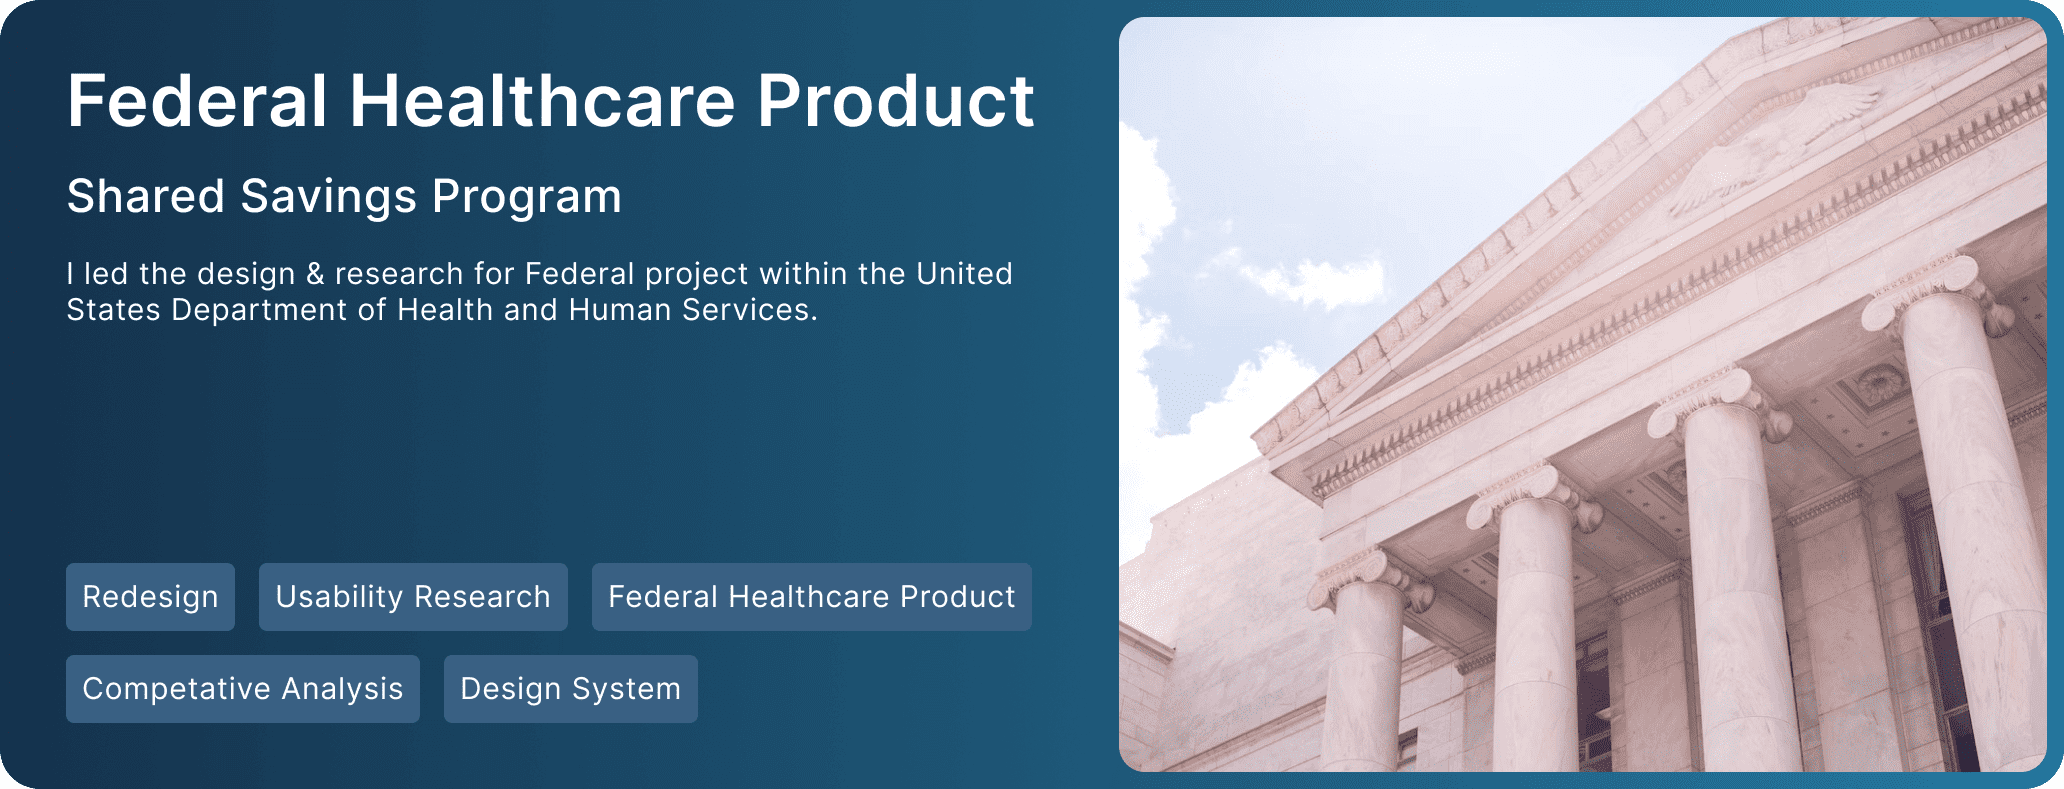
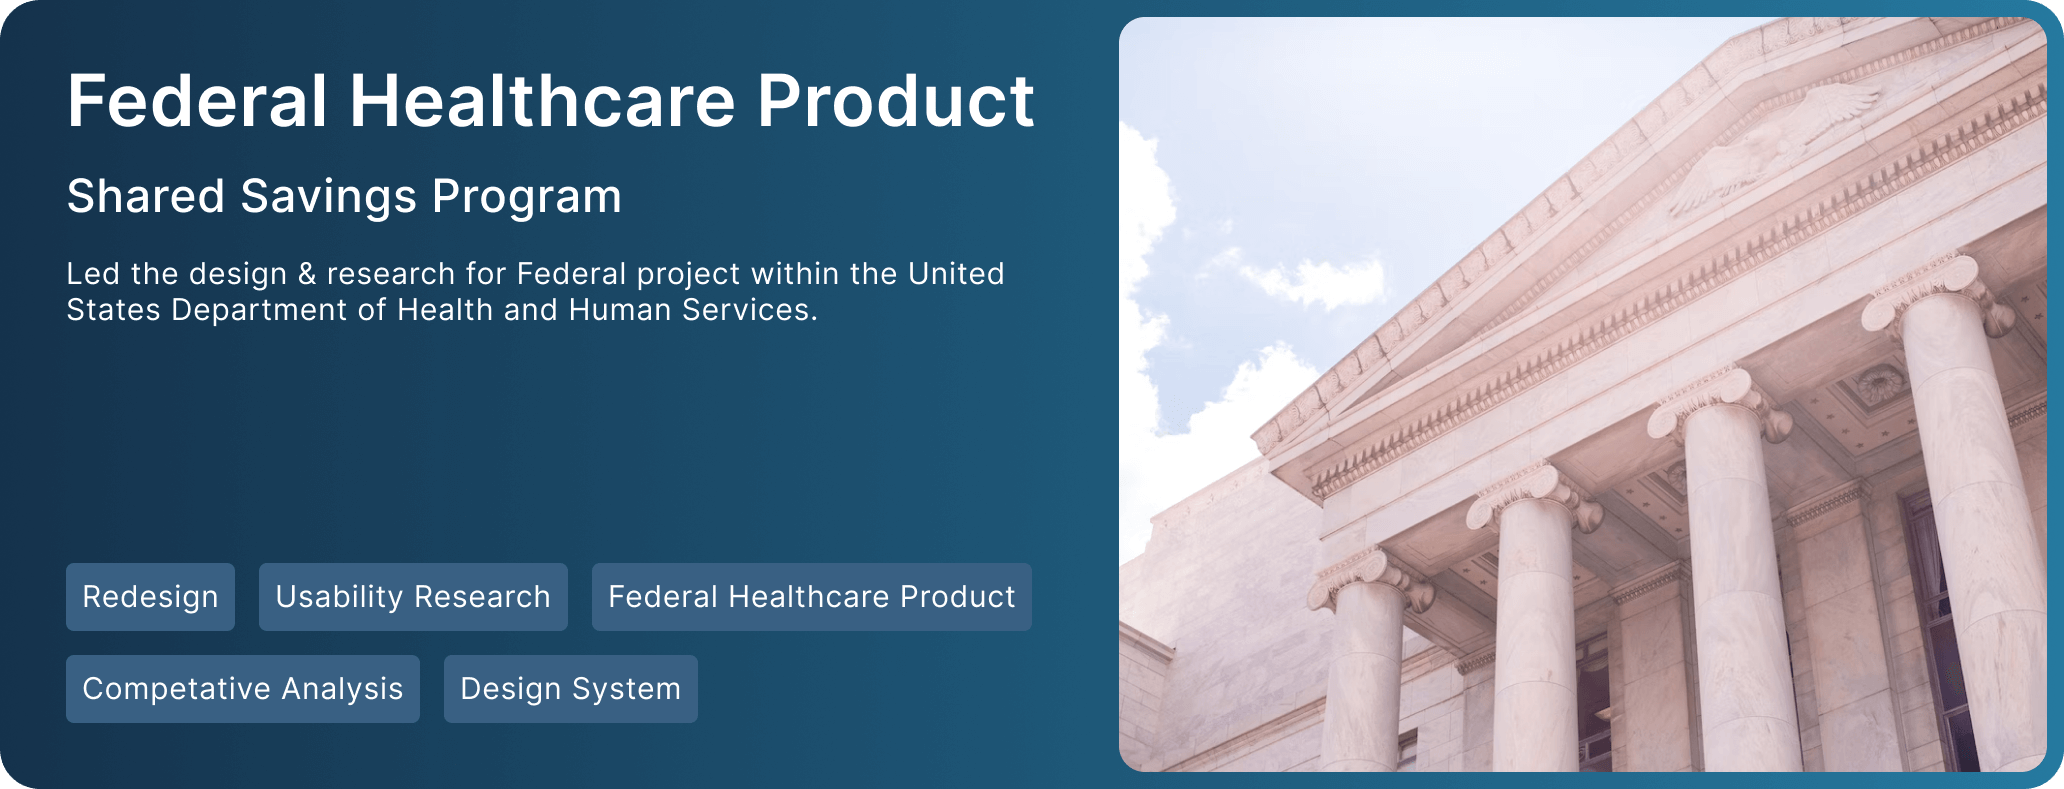
f
f

Changed region(s): [[0.031, 0.3346, 0.4961, 0.365], [0.8682, 0.8517, 0.9302, 0.9734]]

diff --git a/bspd2244180913323234627744434543.html b/bspd2244180913323234627744434543.html
@@ -141,7 +141,8 @@
   
 <div class="col-md-12" style="font-size:20px; z-index:90; font-weight:700; color: #333333;padding: 0 !important;
    margin: 0 !important;">
-  BACKGROUND </br>  <span style="font-size:20px; z-index:400; color: #333333;  font-weight:400; z-index:90;"> 
+  BACKGROUND </br>  
+  <span style="font-size:20px; z-index:400; color: #333333;  font-weight:400; z-index:90;"> 
     Brightspeed is the nation's fifth largest ILEC, valued at over 7.5 billion USD, with a service territory encompassing more than 6.5 million locations in mainly rural and suburban communities. The company has officially commenced the buildout of its state-of-the-art fiber optics network with plans to complete over 1 million new fiber passings by the end of 2023.
       Brightspeed is a spin-off of Lumen and CenturyLink's current rural business and consumer market. Brightspeed services the southeast, 
     southwest, and great lakes regions of the United States.  
@@ -235,7 +236,7 @@ MY ROLE & ROADMAP
 
 
 
-  <div class="container" style="padding:50px 50px 50px 50px; ">
+  <div class="container" style="padding:40px 40px 40px 40px; ">
  </div>
 
 <!--
@@ -728,6 +729,7 @@ Product Page
 <div  style="font-size:20px; z-index:400; color: #333333;  font-weight:400;">
 Please look at the report that compares the Day 1 and Day 2 activity generated via Google Analytics <a href="images/day.pdf" class="iconabout" style="text-decoration: underline; color: #333333;border-color: #333333;border: #333333;"> Day1 vs Day2 PDF   </a>
 </div>
+<!--
 <div class="row pl-0 pr-0"> 
 <div class="col-md-7 pl-0 pr-0"> 
 Overall pages with /ew/ in their taxonomy saw pageview increase over 47%, with over 45% increase in unique pageviews, and a whopping 70% bouncerate decrease. More time was spend on Business Solutions Day 2 page versus the Day 1 version and the bouncerate dropped by 50% for that page alone.
@@ -743,12 +745,34 @@ Analysis: March and April 23 have the highest # of leads vs any other months, wi
   width: auto;
   height: auto;"> </div>
 
-
-
-
-
 </div>
-</br>
+ -->
+
+
+ <div style="padding: 20px 20px 20px 20px;"> </div>
+ <div  class="d-flex justify-content-center">
+   <img src="images/Res1.png" >
+  </div>
+
+
+  <div style="padding: 20px 20px 20px 20px;"> </div>
+
+  More time was spend on Business Solutions Day 2 page versus the Day 1 version and the bouncerate dropped by 50% for that page alone.
+
+  <div style="padding: 10px 10px 10px 10px;"> </div>
+
+
+  <div  class="d-flex justify-content-center">
+    <img src="images/Res2.png" class="img-fluid" alt="Responsive image">
+   </div>
+ 
+  
+  <div style="padding: 10px 10px 10px 10px;"> </div>
+  The image above some numbers that are converted from the Marketo form to date. Coverted status means that the business have agreed for a contract with Brightspeed.
+  Analysis: March and April 23 have the highest # of leads vs any other months, with Feb averaging higher than December 2022. Day 2 months have a higher converted metric than Day 1.
+  
+  <div style="padding: 10px 10px 10px 10px;"> </div>
+
  The challenges of engagement didn't lay within building designs and meeting client requirements. The challenges laid within making ourself heard to higher parts of Brightspeed. Getting clients to acknowledge the value we bring to their company and partner with us. We did this, especially where it was necessary, but we didn't get to do this enough with the consumer side, who ultimately makes more decisions around budgeting for the entire company.
  We are nowhere near done, but certainly off to an amazing start.
  <div style="padding:20px 20px 20px 20px; ">

diff --git a/index.html b/index.html
@@ -158,16 +158,16 @@ $icon.onclick = () => {
 <div class="row" style="margin-top:20px">
 <div class="col-md-12" id="area1" style=" z-index: 35">
 
-    <span style=" color: white; font-size: 20px; font-weight:400; list-style-type: square; "> I've 5+ years of experience helping
-      clients across the Telecom, Federal Gov., Healthcare, Automotive services and Consulting industries and I'm passionate about designing experiences that are 
+    <span style=" color: white; font-size: 20px; font-weight:400; list-style-type: square; "> I have 5+ years of experience helping
+      clients across telecom, federal gov., healthcare, automotive services and consulting industries and I'm passionate about designing experiences that are 
       accessible, beautiful, meaningful and which people enjoy using. </br> </br>
 
      <!--  <a href="images\res.pdf" style="color: #04429F;   font-weight: 600"> View Resume  <i class="arrow right" style="top: 2px;"></i> </a>-->
 
     
      
-      I specialize in Qualitative Research, Design Systems, Interaction Design & Front-End Development of Mobile & Web applications. 
-      I enjoy designing & developing Games & Virtual Reality applications as well.
+      I specialize in aualitative research, design systems, interaction design, usability testing & front-end development of mobile & web applications. 
+      I enjoy designing & developing games & virtual reality applications as well.
 
      
     </span>
